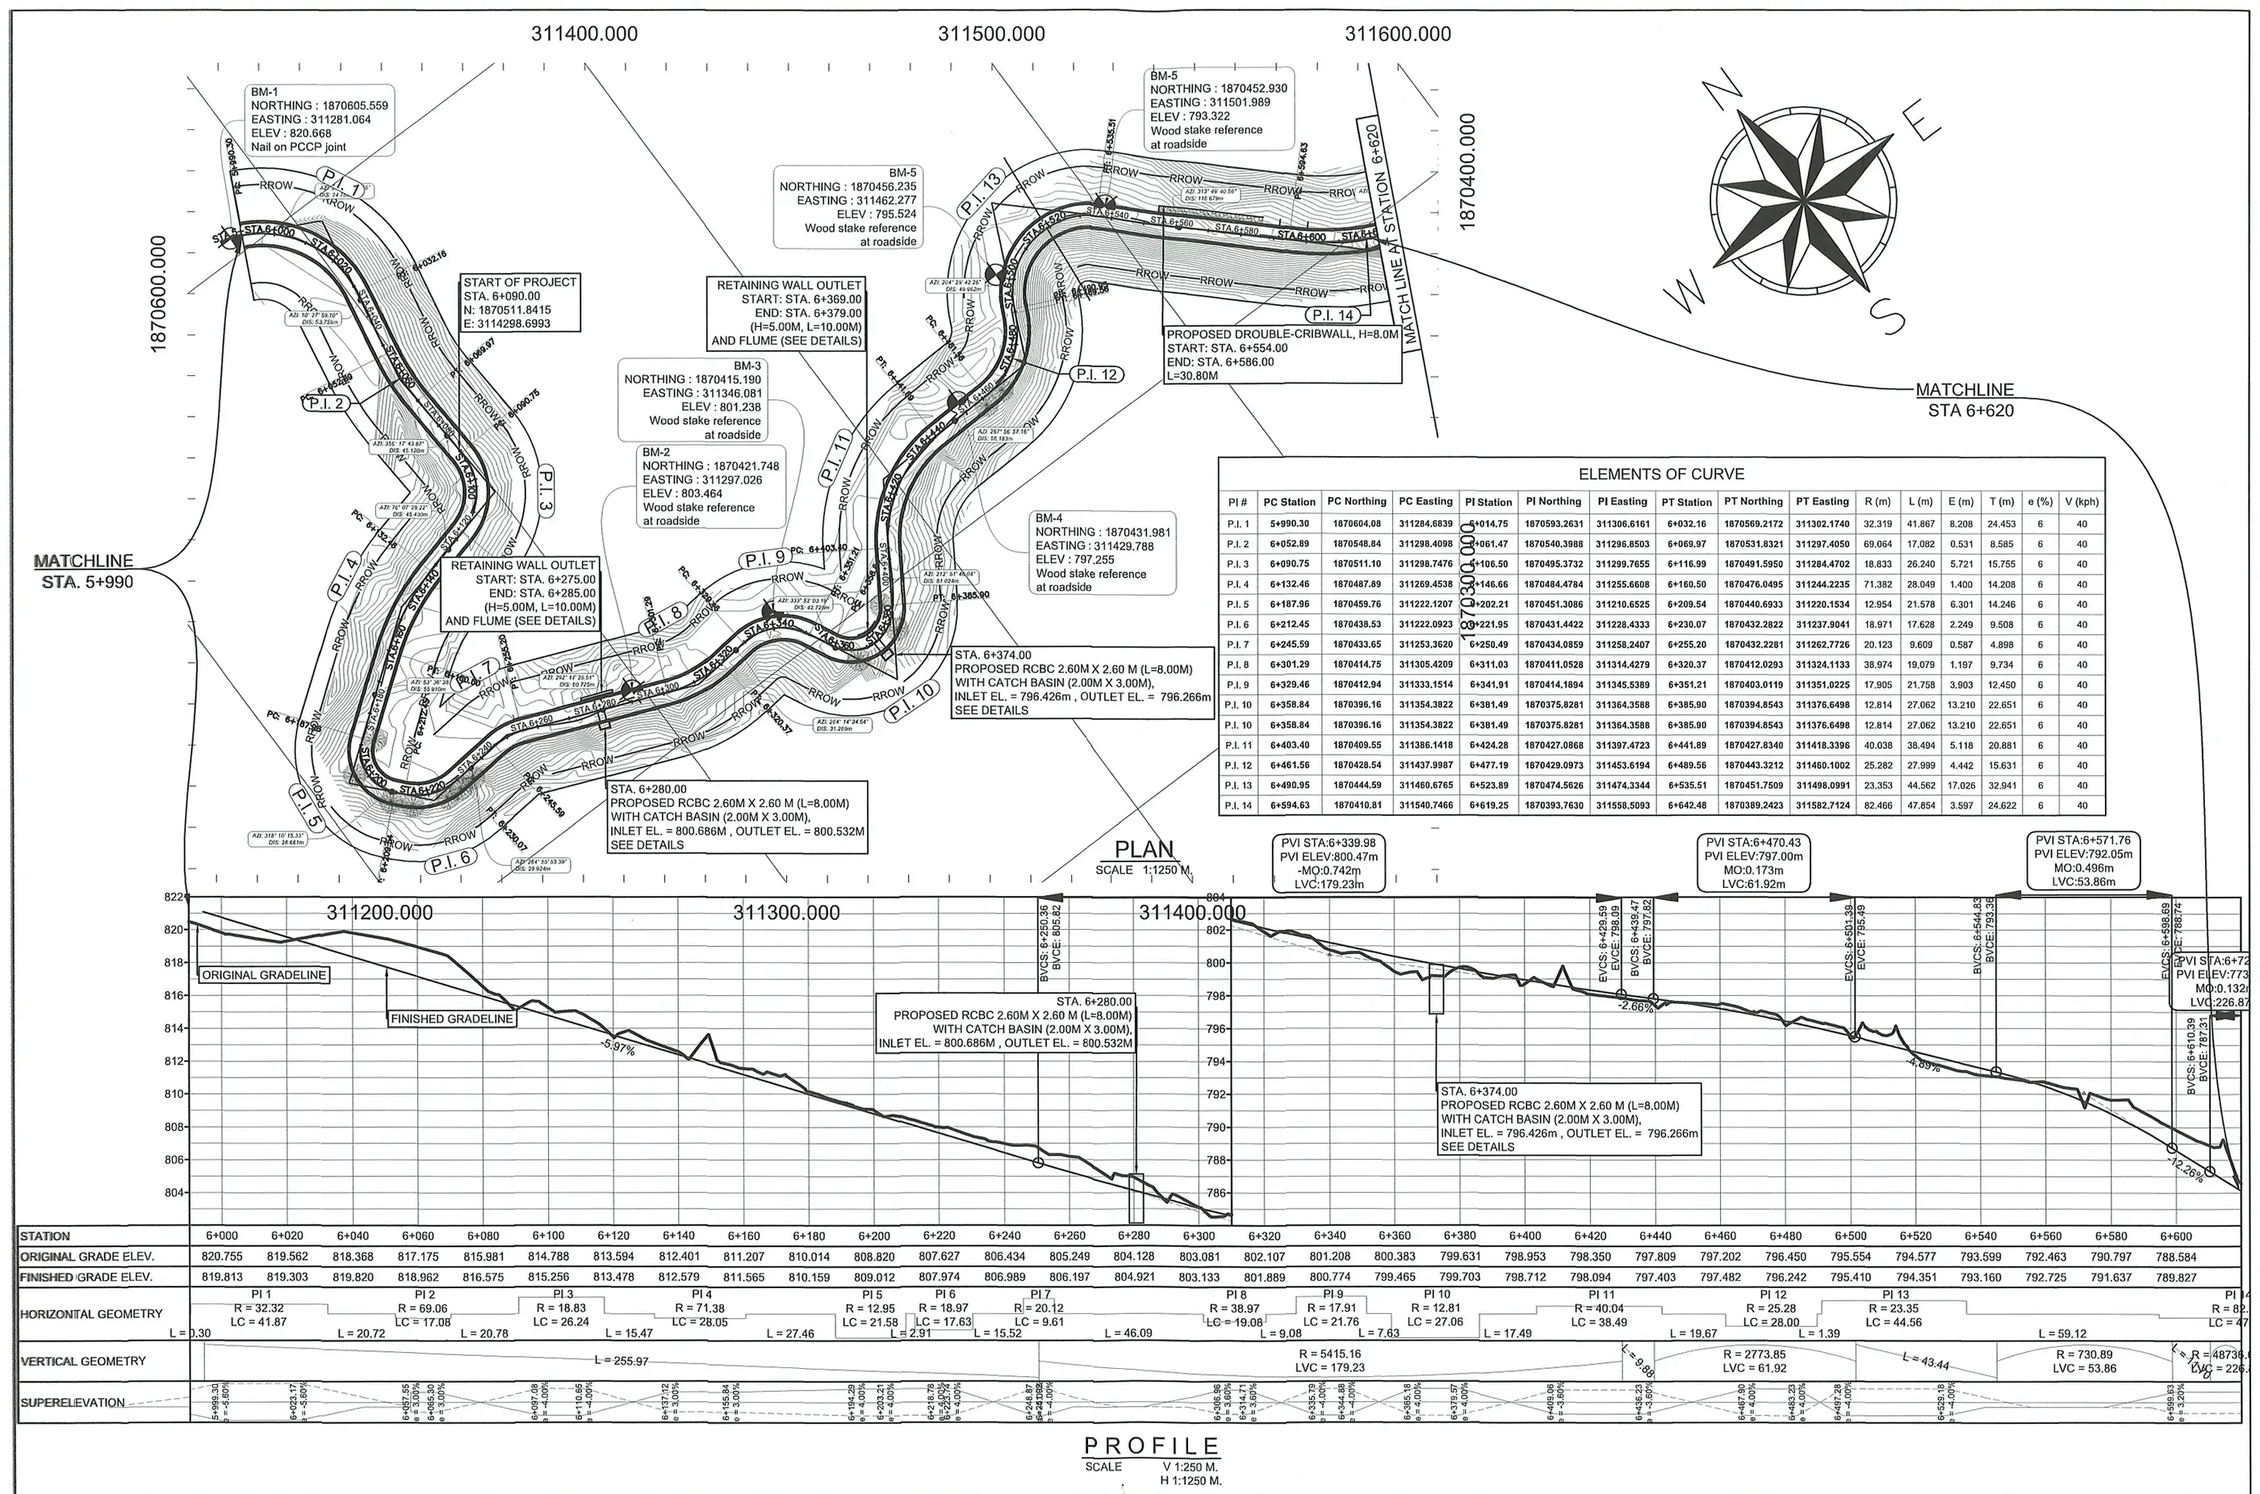
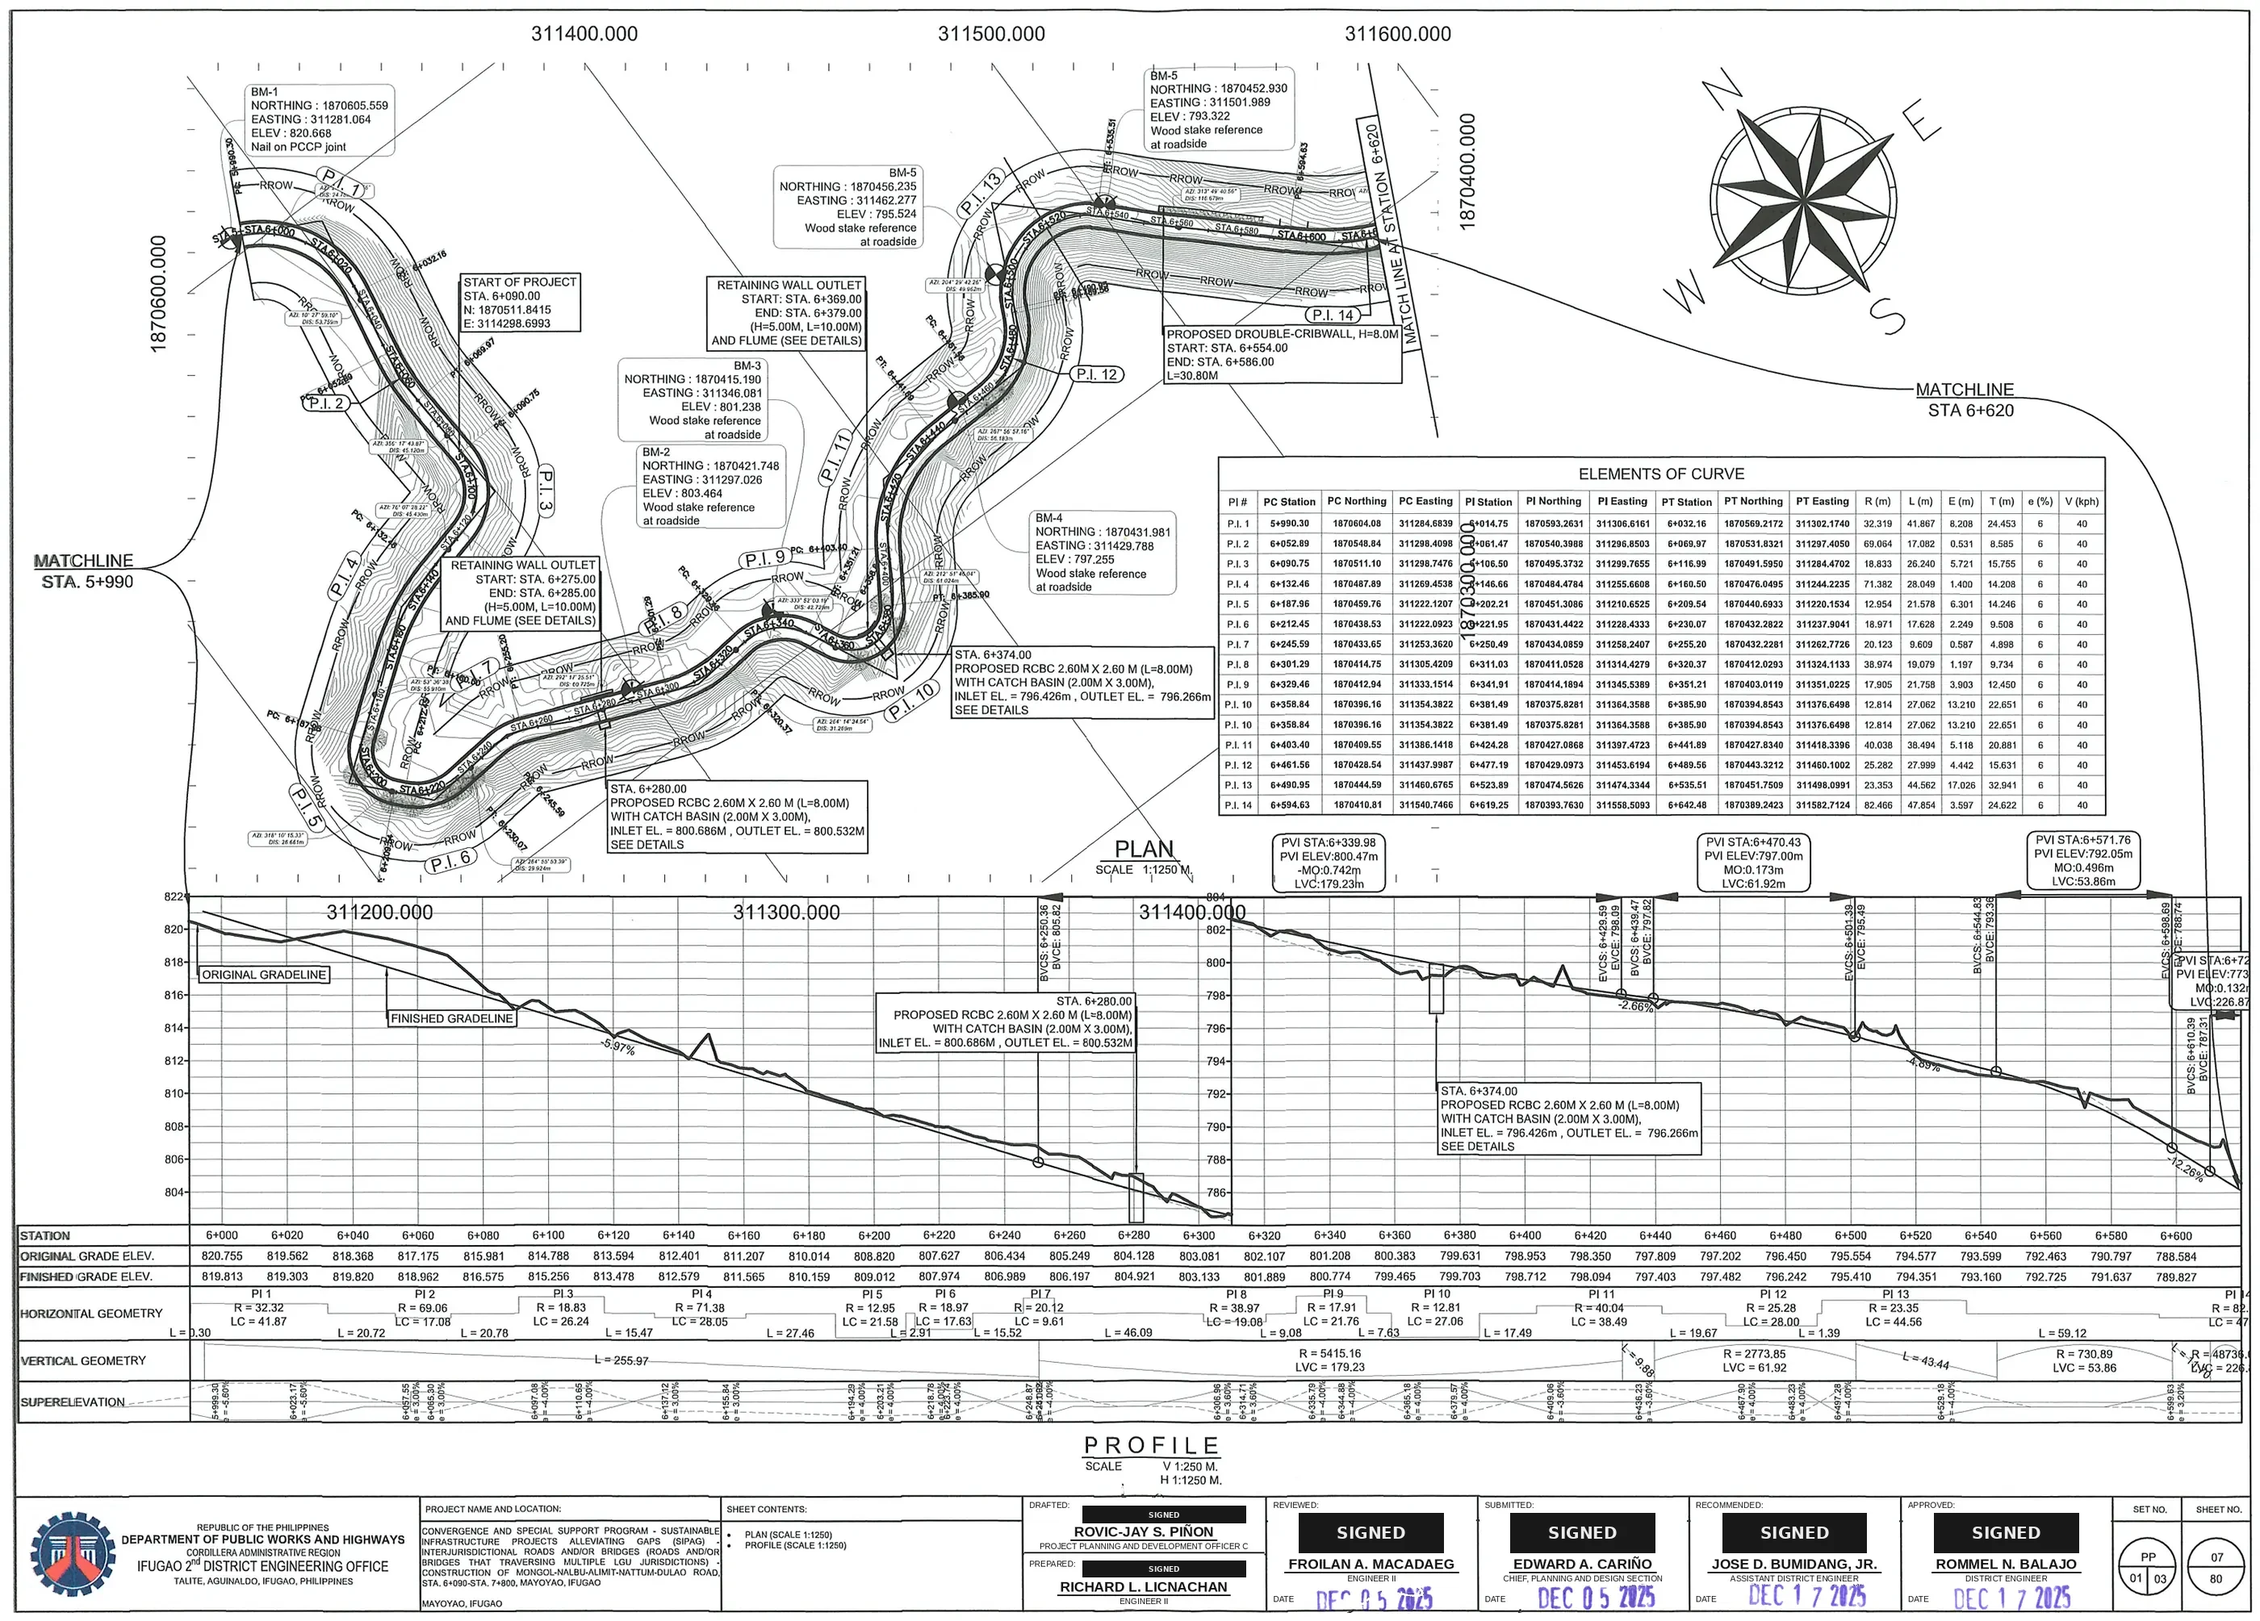
Restore title blocks on DPWH sheets with signatures boxed; plan-profile covers
- Plan/profile and cross-section sheets for PRO-2025-004, PRO-2025-005 and
  PRO-2026-001 are whole again, title block included, per R. Piñon. Every
  signature slot (drafted, prepared, reviewed, submitted, recommended,
  approved) is covered by a solid box marked SIGNED.
- Covers for those three projects are crops of their plan and profile sheets.
- Image viewer keeps tall sheets inside the screen.

Claude-Session: https://claude.ai/code/session_018mkX472BmvxBsLFJke8TKX

diff --git a/src/content/projects/pro-2025-005-road-improvement-catch-basins-stone-masonry.md b/src/content/projects/pro-2025-005-road-improvement-catch-basins-stone-masonry.md
@@ -1,6 +1,7 @@
 ---
-# Professional DPWH work, approved for publication 2026-11-12. Figures are crops of the approved plan set with
-# the title block (names, signatures, project name, stations, sheet numbers) removed.
+# Professional DPWH work, approved for publication by R. Piñon 2026-11-12. Plan/profile and cross-section
+# sheets are shown whole with the title block; every signature is covered by a solid box marked SIGNED
+# (2026-11-13). Detail figures are crops of detail sheets.
 code: PRO-2025-005
 title: "Road Improvement with Curb and Gutter Drainage and Stone Masonry Embankment Protection"
 work_type: PRO
@@ -62,4 +63,4 @@ DPWH Standard Specifications for Highways, Bridges and Airports; DPWH pavement d
 
 ## Drawings and visual evidence
 
-The plan and profile and cross-section sheets are shown whole, with the signatures removed and the printed names in the title block re-lettered. The detail figures are crops of detail sheets from the approved plan set.
+The plan and profile and cross-section sheets are shown whole, with their title blocks. Each signature is covered by a box marked "Signed". The detail figures are crops of detail sheets from the approved plan set.

diff --git a/src/content/projects/pro-2025-004-mountain-road-box-culvert-slope-protection.md b/src/content/projects/pro-2025-004-mountain-road-box-culvert-slope-protection.md
@@ -1,6 +1,7 @@
 ---
-# Professional DPWH work, approved for publication 2026-11-12. Figures are crops of the approved plan set with
-# the title block (names, signatures, project name, stations, sheet numbers) removed.
+# Professional DPWH work, approved for publication by R. Piñon 2026-11-12. Plan/profile and cross-section
+# sheets are shown whole with the title block; every signature is covered by a solid box marked SIGNED
+# (2026-11-13). Detail figures are crops of detail sheets.
 code: PRO-2025-004
 title: "Mountain Road Construction with Box Culvert Drainage and Slope Protection"
 work_type: PRO
@@ -71,4 +72,4 @@ DPWH Standard Specifications for Highways, Bridges and Airports; AASHTO M 31 rei
 
 ## Drawings and visual evidence
 
-The plan and profile and cross-section sheets are shown whole, with the signatures removed and the printed names in the title block re-lettered. The detail figures are crops of detail sheets from the approved plan set.
+The plan and profile and cross-section sheets are shown whole, with their title blocks. Each signature is covered by a box marked "Signed". The detail figures are crops of detail sheets from the approved plan set.

diff --git a/src/content/projects/pro-2026-001-bridge-detailed-engineering-plan.md b/src/content/projects/pro-2026-001-bridge-detailed-engineering-plan.md
@@ -1,6 +1,7 @@
 ---
-# Professional DPWH work, approved for publication 2026-11-12. Figures are crops of the approved plan set with
-# the title block (names, signatures, project name, stations, sheet numbers) removed.
+# Professional DPWH work, approved for publication by R. Piñon 2026-11-12. Plan/profile and cross-section
+# sheets are shown whole with the title block; every signature is covered by a solid box marked SIGNED
+# (2026-11-13). Detail figures are crops of detail sheets.
 code: PRO-2026-001
 title: "Detailed Engineering Plan for a Two-Lane, 45 m Steel Plate Girder Bridge"
 work_type: PRO
@@ -66,4 +67,4 @@ Detailed engineering plan for a new two-lane, 45 m bridge on a mountain road in 
 
 ## Drawings and visual evidence
 
-The plan and profile and cross-section sheets are shown whole, with the signatures removed and the printed names in the title block re-lettered. The detail figures are crops of detail sheets from the approved plan set.
+The plan and profile and cross-section sheets are shown whole, with their title blocks. Each signature is covered by a box marked "Signed". The detail figures are crops of detail sheets from the approved plan set.
